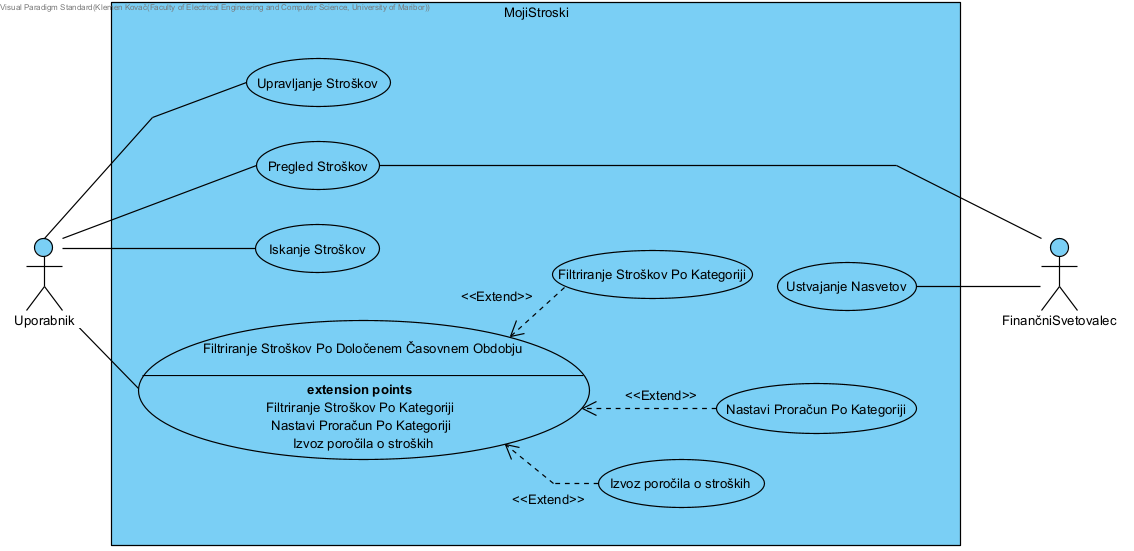
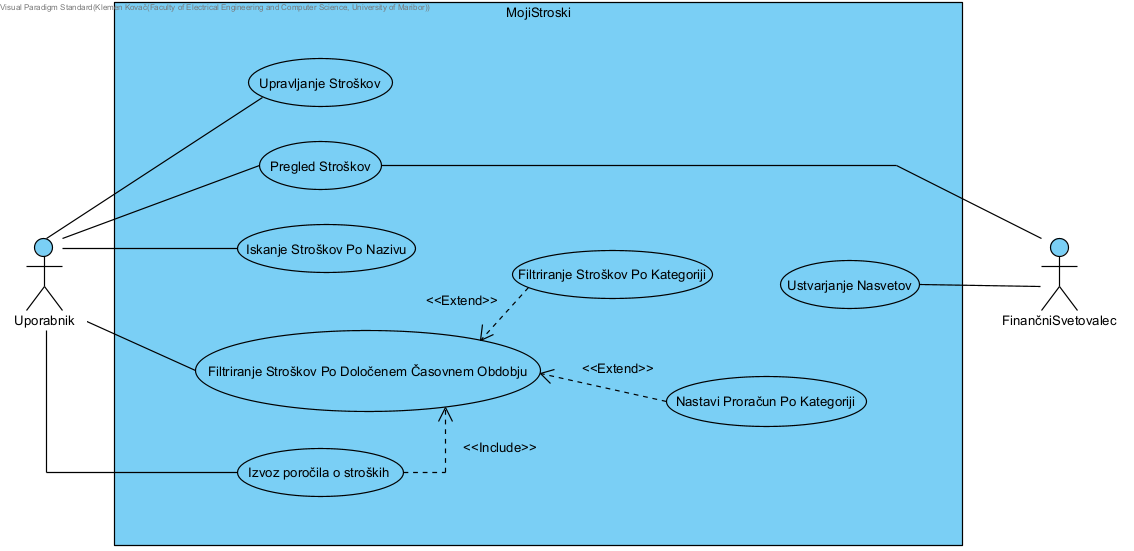
Dodan podroben opis primera uporabe ter posodobljen UDP

diff --git a/README.md b/README.md
@@ -580,4 +580,98 @@ Pri razvoju projekta upoštevamo naslednje standarde:
 ## Diagram primerov uporabe
 ![Diagram primerov uporabe](DPU/DPU.png)
 
-## Podroben opis primerov uporabe
+# Podrobni opisi neimplementiranih primerov uporabe
+
+V tem dokumentu so podrobno opisani primeri uporabe, ki v trenutni različici aplikacije Moji stroški še niso implementirani, so pa predvideni v prihodnji, načrtovani različici.
+
+---
+
+## Primer uporabe: Iskanje stroškov
+
+**ID:** PU-07
+
+**Cilj:** Uporabnik želi hitro najti določen strošek ali skupino stroškov glede na ime stroška, ne da bi ročno pregledoval celoten seznam.
+
+**Akterji:** Uporabnik
+
+**Predpogoji:** 
+- Uporabnik je v aplikaciji in ima dostop do pregleda stroškov.
+- V sistemu obstaja vsaj en zabeležen strošek (sicer iskanje vrne prazen rezultat).
+
+**Stanje sistema po PU:** Stanje sistema se ne spremeni. Iskanje je le poizvedba in ne spreminja podatkov v bazi.
+
+**Scenarij:**
+1. Uporabnik odpre pregled stroškov.
+2. Uporabnik posreduje iskalni niz (del opisa stroška).
+3. Sistem preveri, ali je iskalni niz neprazen.
+4. Sistem poišče vse stroške, katerih opis vsebuje iskalni niz.
+5. Sistem uporabniku prikaže seznam najdenih stroškov z ustreznimi podatki (opis, znesek, kategorija, datum).
+
+**Alternativni tokovi:**
+- **2a. Uporabnik med tipkanjem spreminja iskalni niz:** Sistem sproti posodablja rezultate (iskanje v živo).
+- **3a. Iskalni niz je prazen:** Sistem prikaže celoten seznam stroškov (brez filtriranja).
+- **4a. Noben strošek ne ustreza iskalnemu nizu:** Sistem prikaže obvestilo, da ni najdenih stroškov, in uporabniku omogoči nov poskus iskanja.
+
+**Izjeme:**
+- **Napaka pri pridobivanju podatkov:** Če sistem ne more dostopati do baze podatkov, uporabniku prikaže sporočilo "Iskanje trenutno ni mogoče. Poskusite znova pozneje." in ne prikaže nepopolnega seznama.
+
+---
+
+## Primer uporabe: Nastavi proračun po kategoriji
+
+**ID:**
+
+**Cilj:** 
+
+**Akterji:** 
+
+**Predpogoji:**
+
+**Stanje sistema po PU:** 
+
+**Scenarij:**
+
+**Alternativni tokovi:**
+
+**Izjeme:**
+
+---
+
+## Primer uporabe: Izvozi poročilo o stroških
+
+**ID:**
+
+**Cilj:** 
+
+**Akterji:** 
+
+**Predpogoji:**
+
+**Stanje sistema po PU:** 
+
+**Scenarij:**
+
+**Alternativni tokovi:**
+
+**Izjeme:**
+
+---
+
+## Primer uporabe: Daj nasvet uporabniku
+
+**ID:**
+
+**Cilj:** 
+
+**Akterji:** 
+
+**Predpogoji:**
+
+**Stanje sistema po PU:** 
+
+**Scenarij:**
+
+**Alternativni tokovi:**
+
+**Izjeme:**
+
